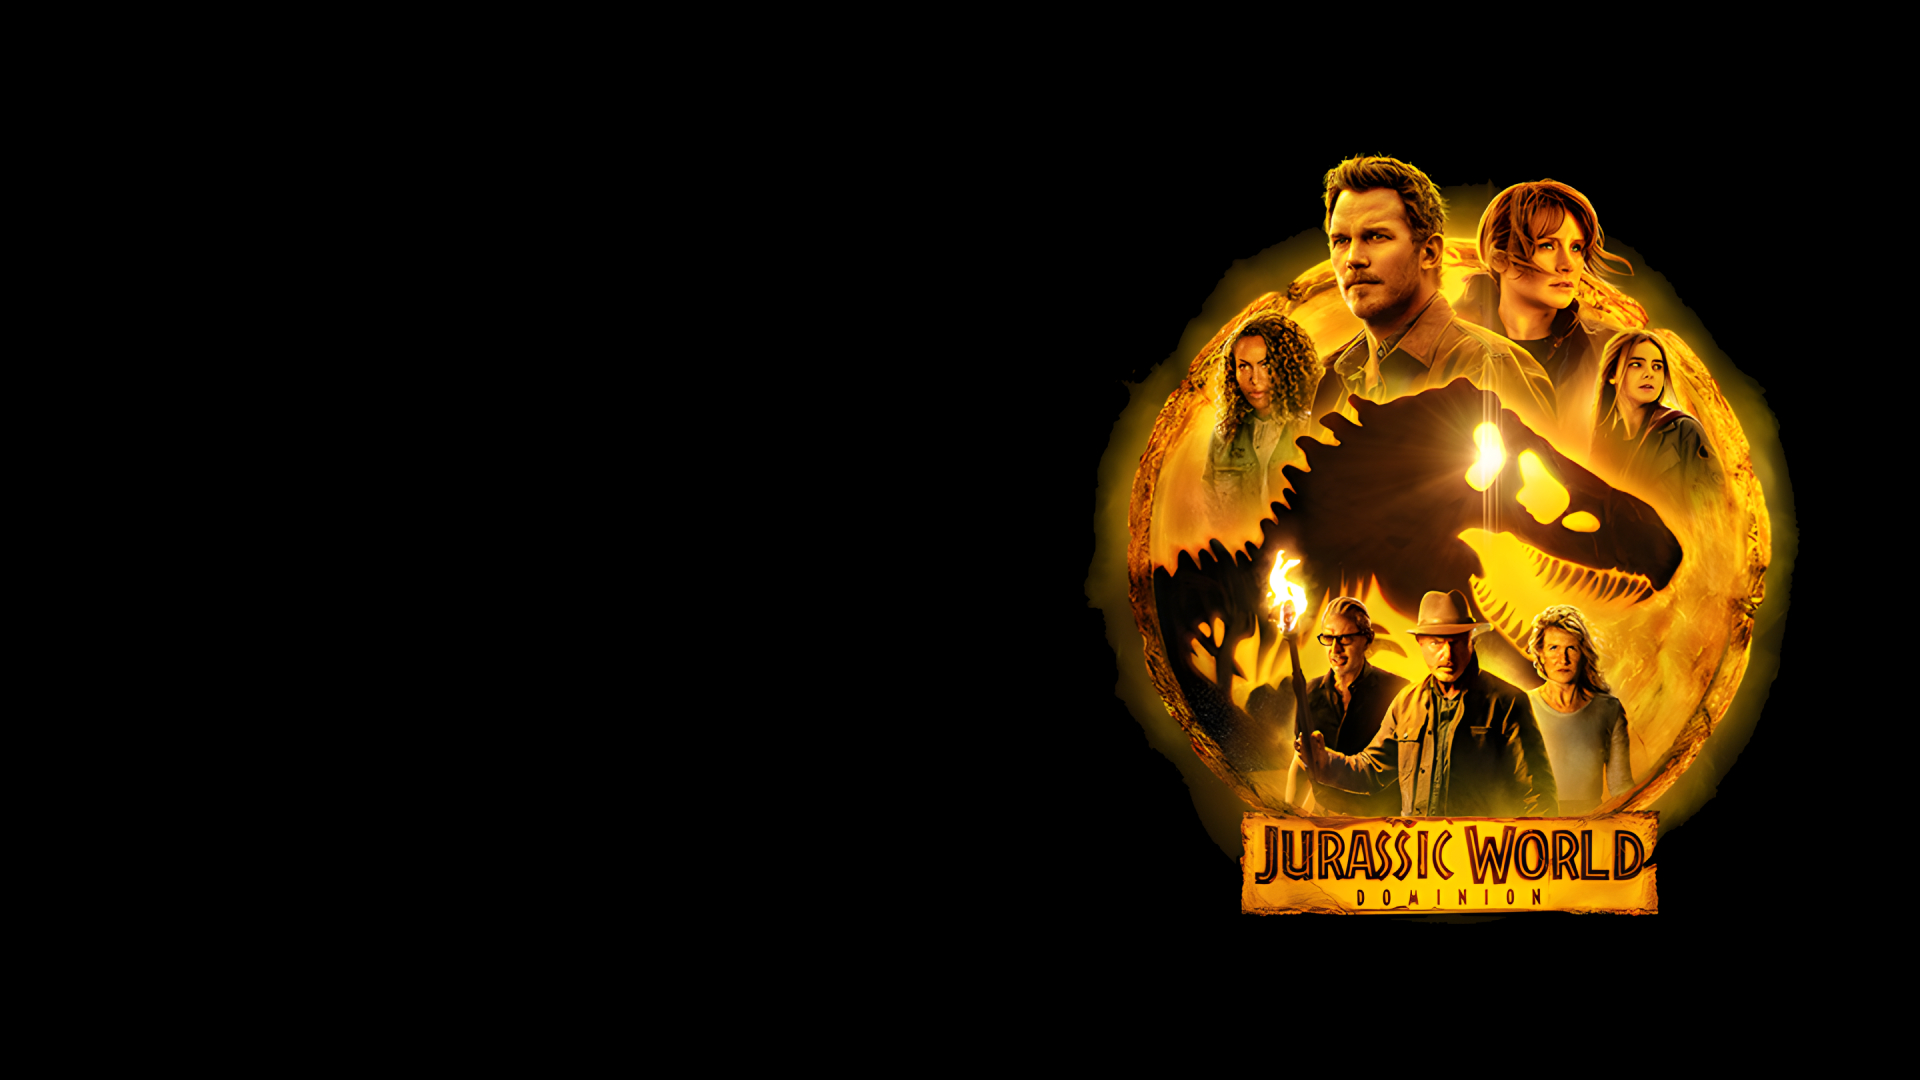
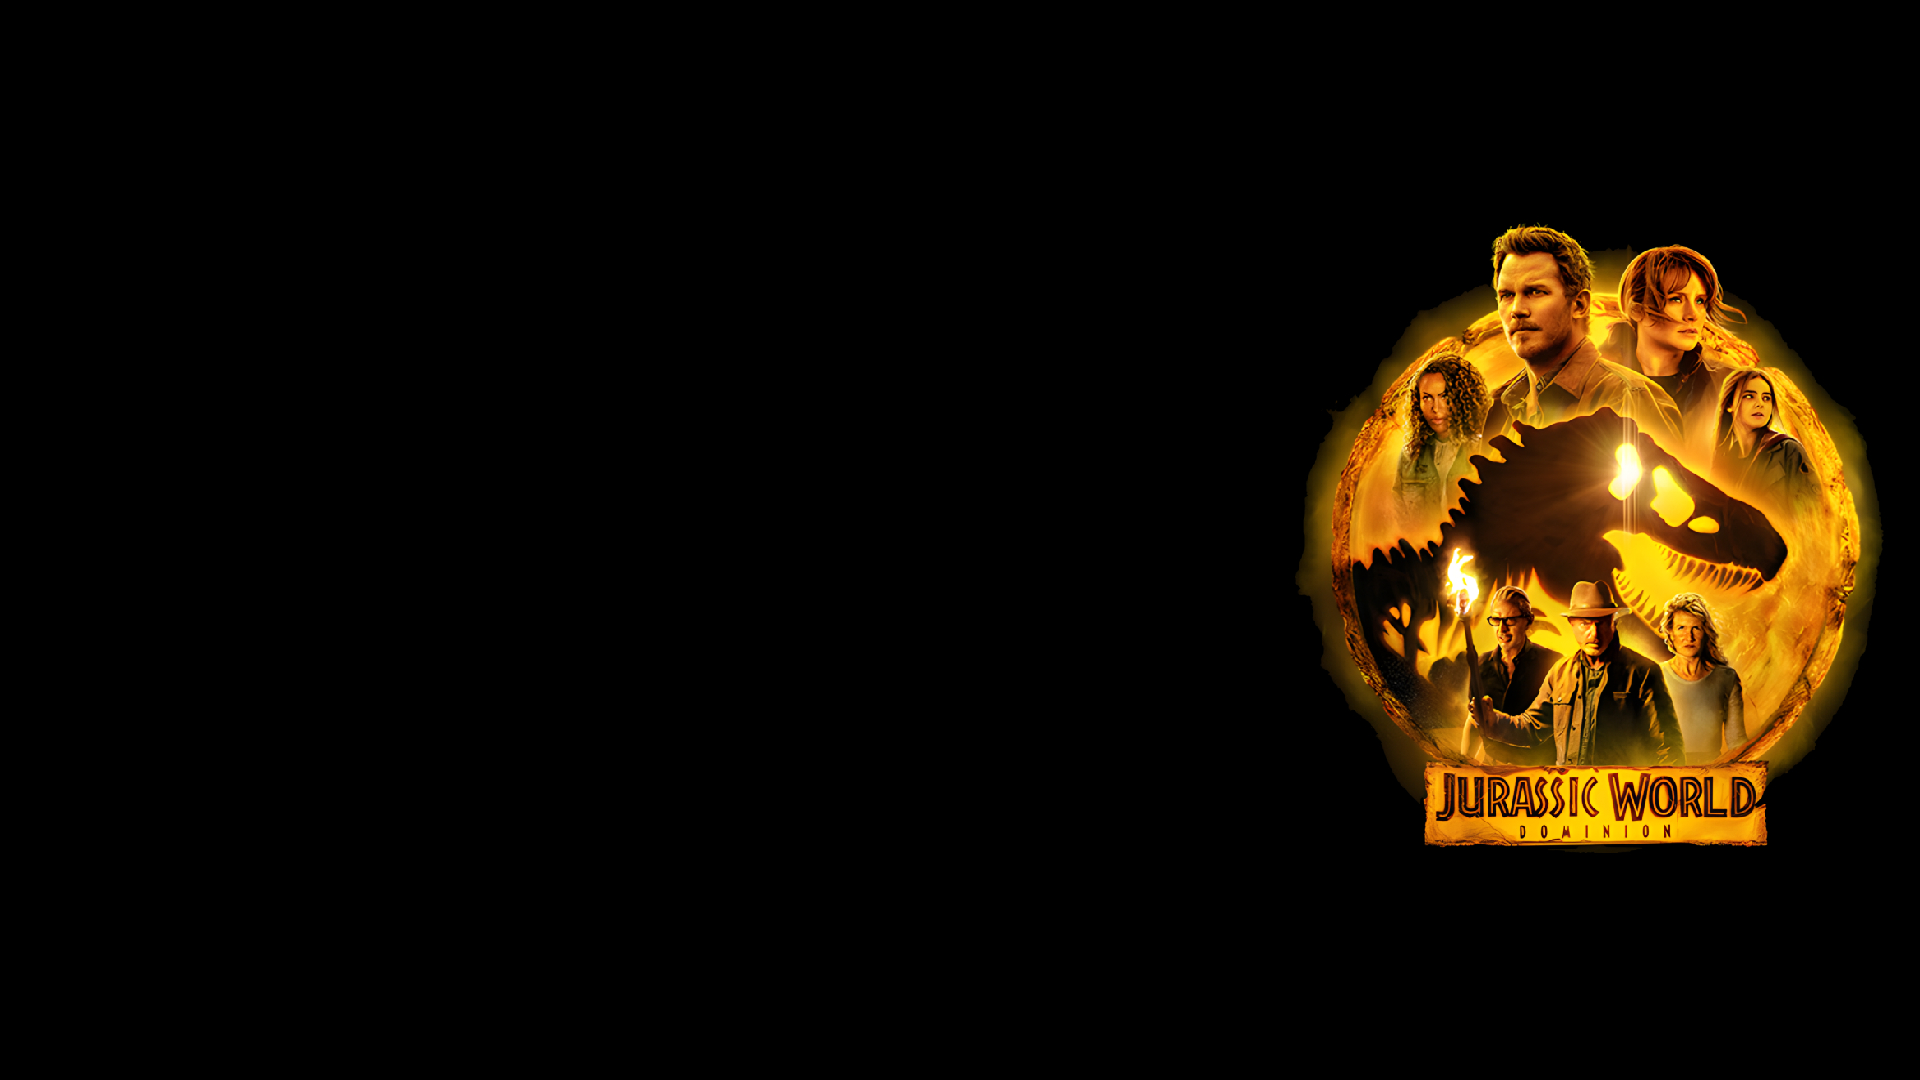
Primeira parte feita

Changed region(s): [[0.5625, 0.1222, 1.0, 0.8556]]

diff --git a/style.css b/style.css
@@ -1,0 +1,178 @@
+@import url('https://fonts.googleapis.com/css2?family=Noto+Sans:ital,wght@0,300;0,400;0,700;1,300&display=swap');
+
+:root{
+    --ambar: #DE7812;
+    --darkambar: #AD5D0E;
+}
+
+*{
+    margin: 0;
+    padding: 0;
+    color: white;
+    font-family: 'Noto Sans', sans-serif;
+}
+
+ul{
+    list-style: none;
+}
+
+body{
+    height: 100vh;
+    background: linear-gradient(90deg, rgba(0, 0, 0, 0.80) 30%, rgba(0, 0, 0, 0.60) 50%, rgba(0, 0, 0, 0.20)), 
+    url(Midia/background.jpg);
+    background-size: cover;
+    background-repeat: no-repeat;
+    background-position: right center;
+    padding: 5vh 5vw;
+    display: flex;
+    flex-direction: column;
+}
+
+
+/*header*/
+
+
+body header .navbar{
+    display: flex;
+    justify-content: space-between;
+    align-items: center;
+}
+
+body header .navbar img{
+    width: 180px;
+    max-width: 20vh;
+}
+
+body header .navbar nav ul{
+    display: flex;
+    gap: 20px;
+    text-decoration: none;
+}
+
+body header .navbar nav ul li{
+    padding: 6px 10px;
+    transition: all .7s;
+}
+
+body header .navbar nav ul li:hover{
+    background-color: var(--darkambar);
+}
+
+body header .navbar nav ul li a{
+    text-decoration: none;
+    font-size: 2.3rem;
+}
+
+
+/*main*/
+
+
+body main{
+    flex-grow: 1;
+    display: flex;
+}
+
+body main .text-content{
+    flex-grow: 1;
+    display: flex;
+    flex-direction: column;
+    justify-content: center;
+    align-items: flex-start;
+    transform: translateY(-60px);
+
+}
+
+body main .text-content h1{
+    font-size: 7rem;
+}
+
+body main .text-content h1 span{
+    display: block;
+    transform: translateY(30px);
+    font-size: 3rem;
+    font-weight: 300;
+}
+
+body main .text-content h2{
+    transform: translateY(-30px);
+    font-size: 1.7rem;
+}
+
+body main .text-content p{
+    font-size: 1.4rem;
+    width: 580px;
+}
+
+body main .text-content button{
+    width: 300px;
+    height: 60px;
+    border-radius: 60px;
+    background-color: var(--ambar);
+    border: none;
+    outline: none;
+    font-size: 1.3rem;
+    font-weight: bold;
+    transform: translateY(40px);
+    transition: all .6s;
+}
+
+body main .text-content button:hover{
+    background-color: var(--darkambar);
+}
+
+body main .social-midia{
+    width: 60px;
+    display: flex;
+    flex-direction: column;
+    justify-content: center;
+    align-items: center;
+}
+
+body main .social-midia ul{
+    display: flex;
+    flex-direction: column;
+    justify-content: flex-end;
+    align-items: center;
+    gap: 20px;
+}
+
+body main .social-midia ul li{
+    width: 60px;
+    height: 60px;
+    border-radius: 50%;
+    border: 2px solid white;
+    display: flex;
+    justify-content: center;
+    align-items: center;
+    transition: all .5s;
+}
+
+body main .social-midia ul li:hover{
+    background-color: var(--darkambar);
+}
+
+body main .social-midia ul li i{
+    font-size: 1.8rem;
+}
+
+
+/*footer*/
+
+
+body footer{
+    height: 10vh;
+}
+
+body footer p{
+    text-align: center;
+    font-size: 1.5rem;
+}
+
+
+
+/*Breakpoint
+desktop: 1200px
+laptop: 992px
+tablet:768px
+phone:480px 
+*/

diff --git a/index.html b/index.html
@@ -6,19 +6,86 @@
     <meta name="viewport" content="width=device-width, initial-scale=1.0">
     <title>Document</title>
     <link rel="stylesheet" href="style.css">
+    <script src="https://kit.fontawesome.com/5e244b7f78.js" crossorigin="anonymous"></script>
     <script src="script.js"></script>
 </head>
 <body>
+
+
     <header>
+        <div class="navbar">
+            <a href="https://www.universalpictures.com" target="_blank"> <img src="Midia/Universal-Picture-Logo .png" alt="Logo Universal Pictures" ></a>
+
+        <nav>
+            <ul>
+                <li>
+                    <a href="">Home</a>
+                </li>
+
+                <li>
+                    <a href="">Characters</a>
+                </li>
+
+                <li>
+                    <a href="">Get Tickets</a>
+                </li>
+
+                <li>
+                    <a href="">Galery</a>
+                </li>
+            </ul>
+        </nav>
+
+    </div>
 
     </header>
 
     <main>
+        <div class="text-content">
+            <h1><span> Jurassic World</span>Dominion</h1>
 
+            <h2>The epeic conclusion of the Jurassic era</h2>
+
+            <p>
+                Dominion takes place four years after Isla Nublar has been destroyed. Dinosaurs now live and hunt alongside humans all over the world. This fragile balance will reshape the future and determine, once and for all, whether human beings are to remain the apex predators on a planet they now share with history's most fearsome creatures.
+            </p>
+
+            <button>Watch Trailer</button>
+        </div>
+
+        <div class="social-midia">
+            <ul>
+
+                <li>
+                    <a href="">
+                        <i class="fa-brands fa-youtube"></i>
+                    </a>
+                </li>
+
+                <li>
+                    <a href="">
+                        <i class="fa-brands fa-twitter"></i>
+                    </a>
+                </li>
+
+                <li>
+                    <a href="">
+                        <i class="fa-brands fa-instagram"></i>
+                    </a>
+                </li>
+
+                <li>
+                    <a href="">
+                        <i class="fa-brands fa-facebook-f"></i>
+                    </a>
+                </li>
+
+            </ul>
+        </div>
     </main>
 
     <footer>
-        
+        <p>Direitos de imagem de Universal Pictures&copy; </p>
     </footer>
 </body>
 </html>
